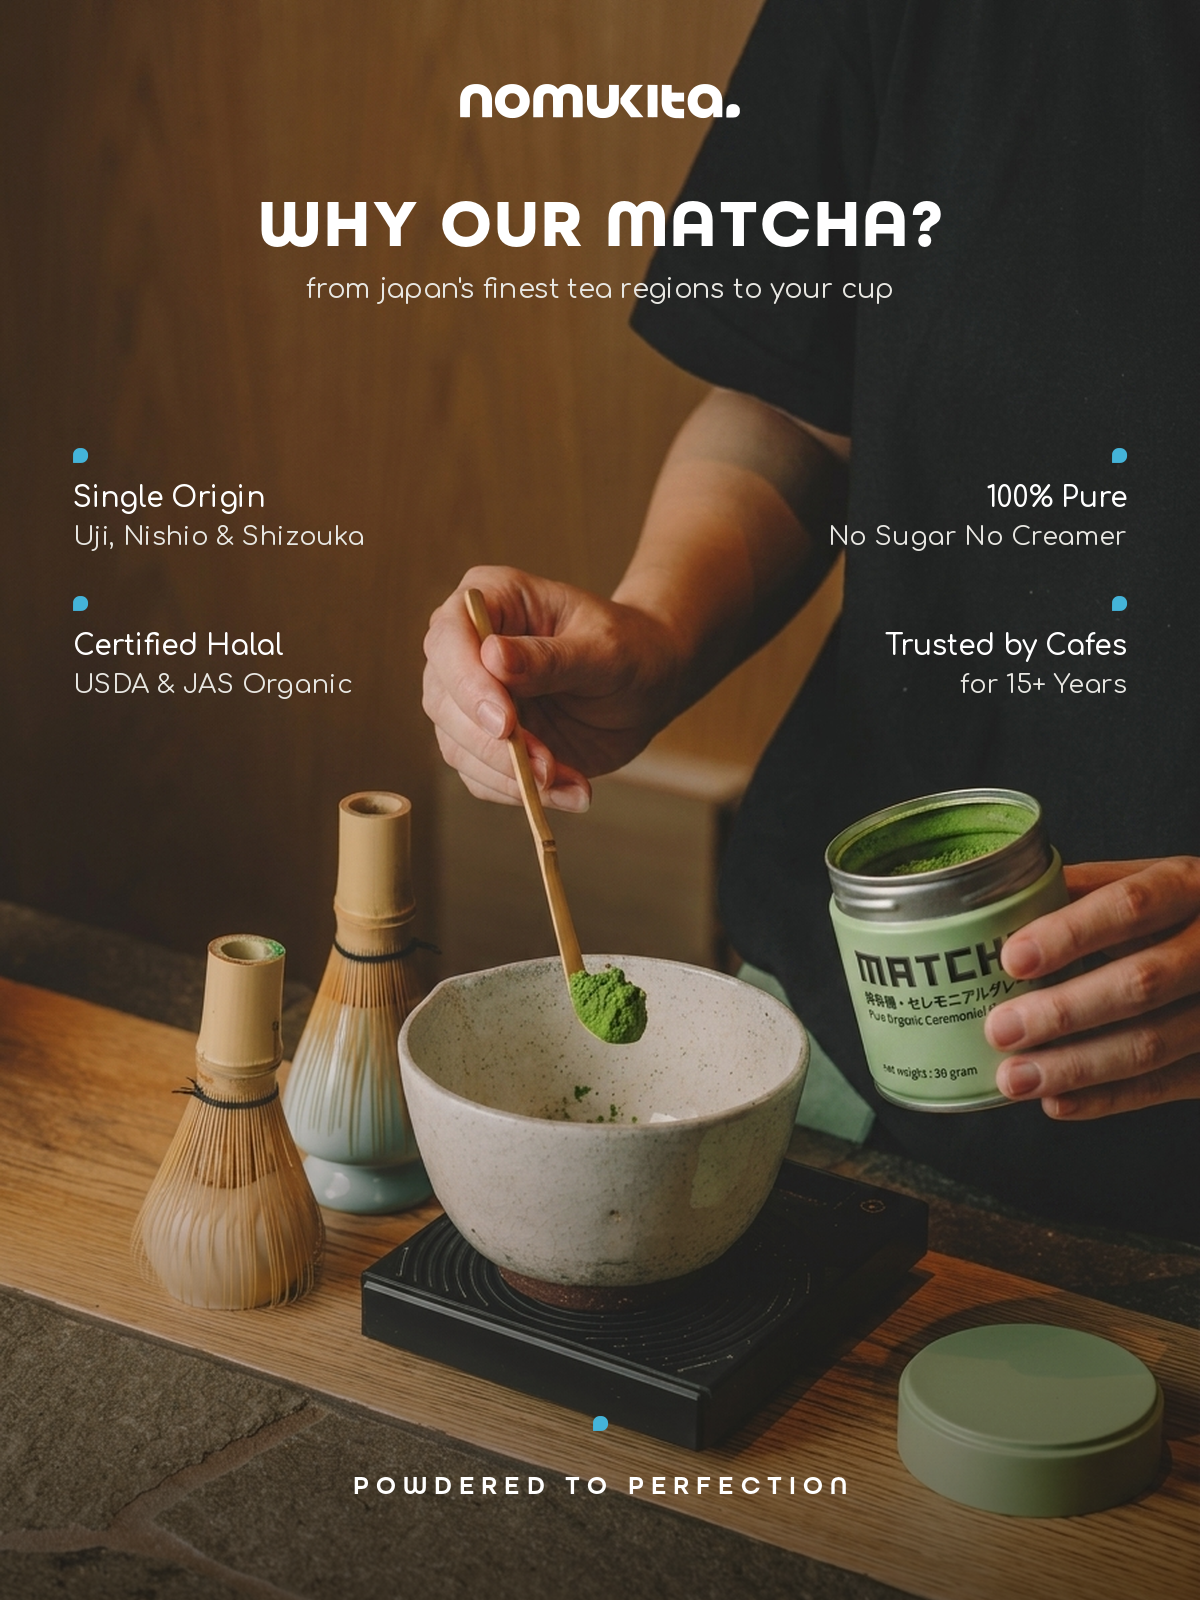
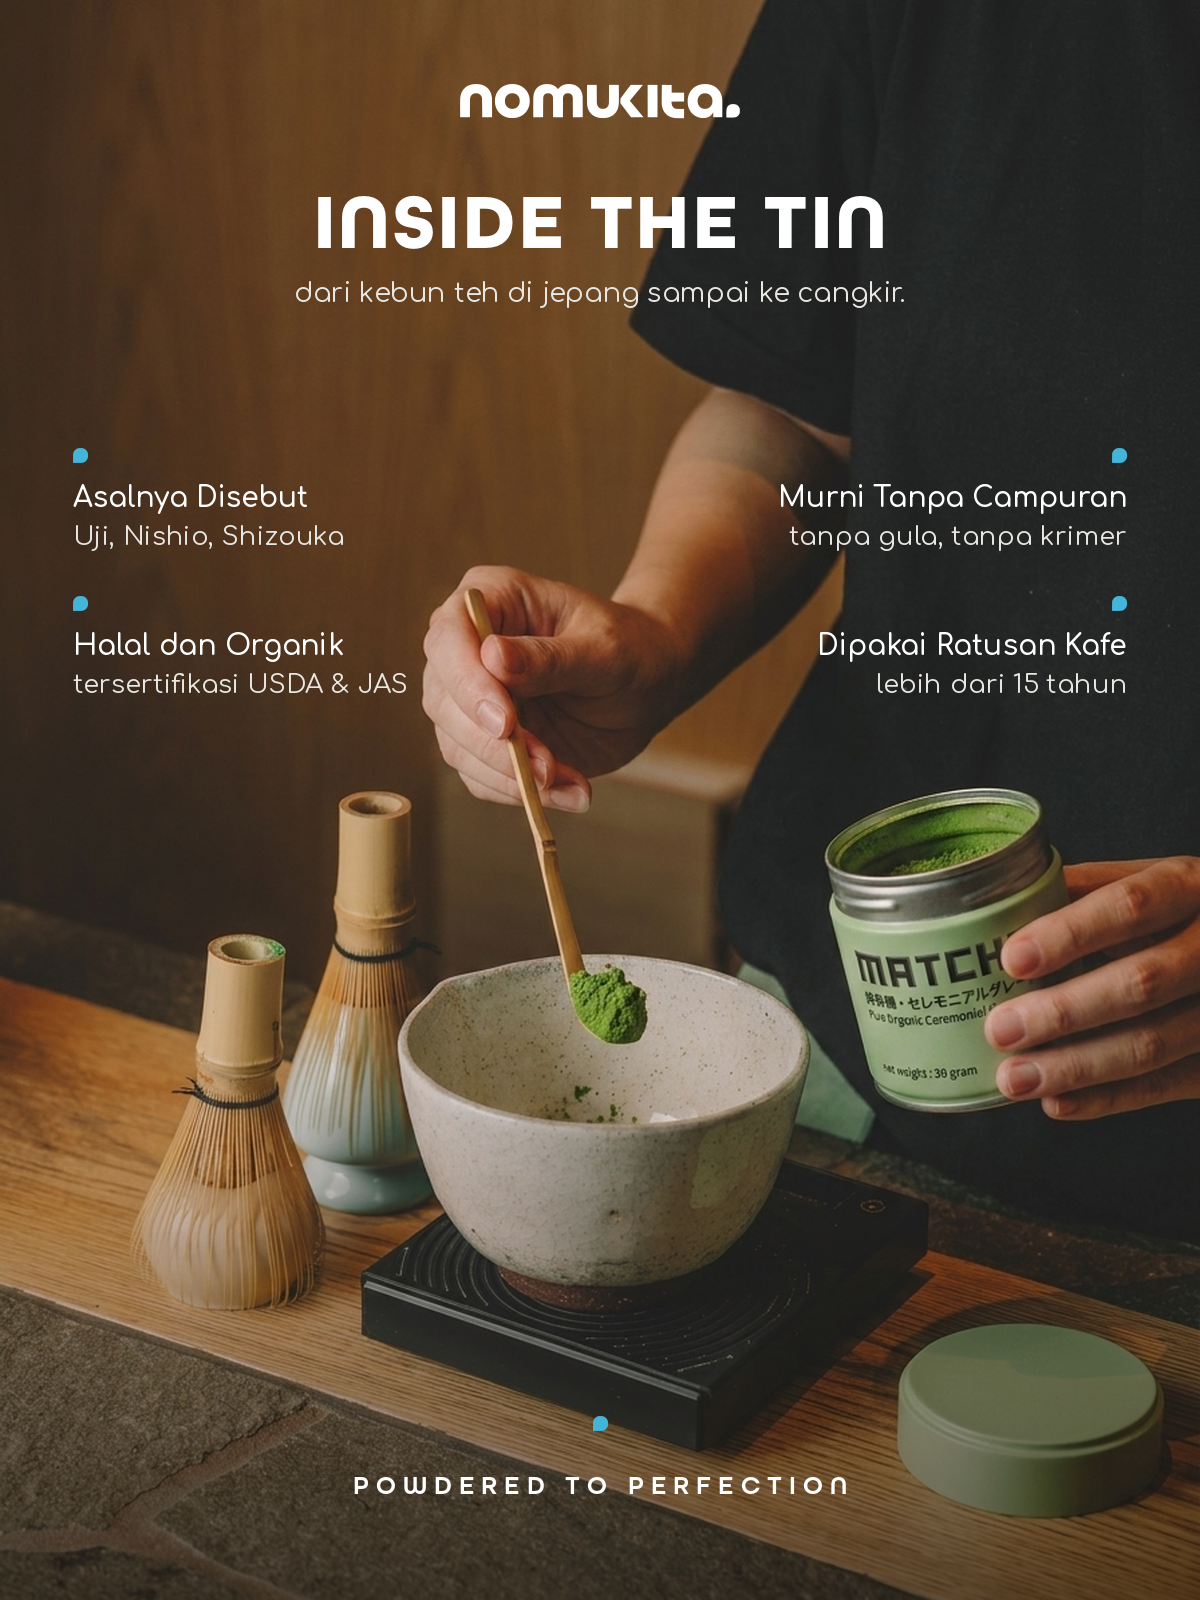
Rewrite slide two copy in the brand's own words
The Nishio slide supplied the substance, not the sentences. All four
claims are re-set: origin named rather than "single origin", pure without
additions rather than a percentage, halal and organic with the two bodies
named, and used by hundreds of cafes rather than "trusted by". The
headline points at the tin the hand is holding.

Each block's pixel footprint was measured against the photograph after
rewriting, since changing the words changes the width: the four now land
on ground peaking at 68-91 luminance, so none of them drifts onto the
bamboo.

Claude-Session: https://claude.ai/code/session_01LqXMhsXVUSTDGQKyLmseEg

diff --git a/banners/brandstory.py b/banners/brandstory.py
@@ -82,16 +82,18 @@ def proof():
     # whisks run bright there (up to 180) and no scrim fixes that without
     # muddying the picture. The scrim only serves the footer.
     N.logo(c, y=84, width=280, colour='#FFFFFF')
-    N.text(d, (W / 2, 246), 'WHY OUR MATCHA?', 68, WHITE, tracking=2,
+    N.text(d, (W / 2, 248), 'INSIDE THE TIN', 78, WHITE, tracking=2,
            align='center')
-    N.body(d, (W / 2, 274), ["from japan's finest tea regions to your cup"], 27,
+    N.body(d, (W / 2, 278), ['dari kebun teh di jepang sampai ke cangkir.'], 27,
            (232, 231, 226), align='center')
 
     right = W - MARGIN
-    _value(c, d, MARGIN, 448, 'Single Origin', 'Uji, Nishio & Shizouka')
-    _value(c, d, right, 448, '100% Pure', 'No Sugar No Creamer', align='right')
-    _value(c, d, MARGIN, 596, 'Certified Halal', 'USDA & JAS Organic')
-    _value(c, d, right, 596, 'Trusted by Cafes', 'for 15+ Years', align='right')
+    _value(c, d, MARGIN, 448, 'Asalnya Disebut', 'Uji, Nishio, Shizouka')
+    _value(c, d, right, 448, 'Murni Tanpa Campuran', 'tanpa gula, tanpa krimer',
+           align='right')
+    _value(c, d, MARGIN, 596, 'Halal dan Organik', 'tersertifikasi USDA & JAS')
+    _value(c, d, right, 596, 'Dipakai Ratusan Kafe', 'lebih dari 15 tahun',
+           align='right')
 
     N.drop(c, W / 2 - 7, 1416, 15, N.LOGO_BLUE)
     N.text(d, (W / 2, 1494), 'POWDERED TO PERFECTION', 26, WHITE, demi=True,
